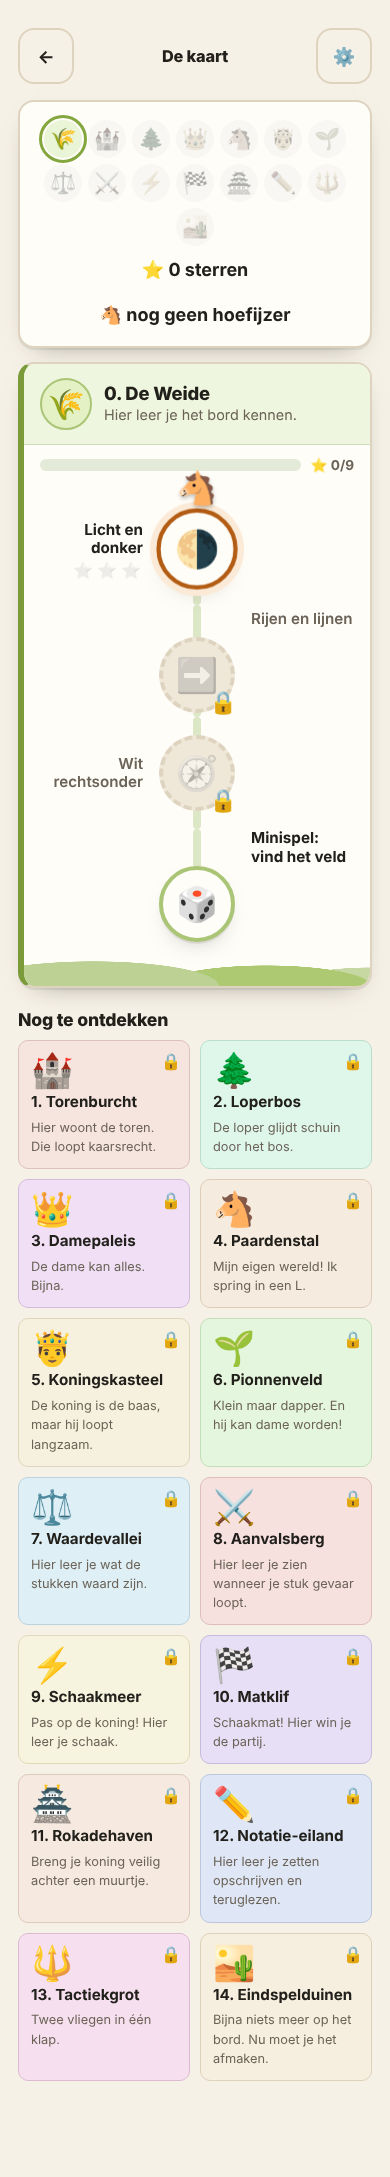
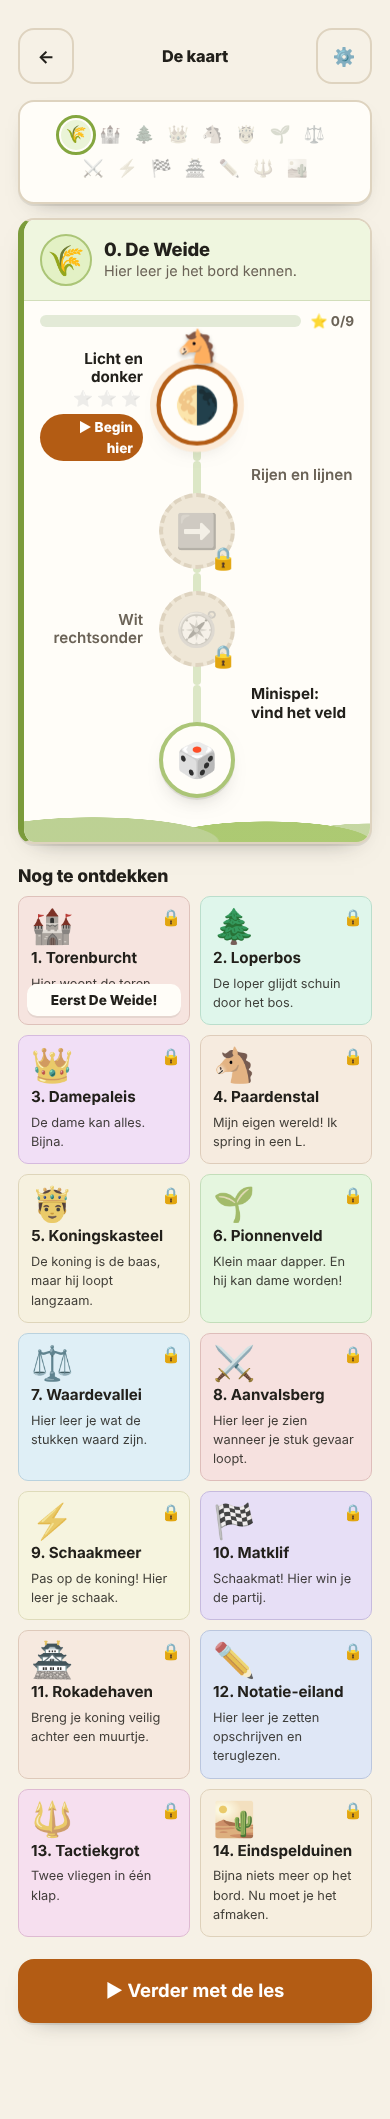
Kaart na 30e review: 64px-uitklapknop, tegels geven antwoord, 'Begin hier', scrollregel bewijst scrollen

diff --git a/src/app/kaart/page.tsx b/src/app/kaart/page.tsx
@@ -1,6 +1,6 @@
 'use client'
 
-import { useEffect } from 'react'
+import { useEffect, useRef, useState } from 'react'
 import Link from 'next/link'
 import { Kop } from '@/ui/Kop'
 import { Sterren } from '@/ui/Sterren'
@@ -43,6 +43,14 @@ export default function Kaart() {
   const geladen = useToestandGeladen()
   // Waar het kind gebleven is: de enige plek op de hele kaart waar Pip staat.
   const hier = volgendeOpenLes(voortgang, modus).id
+  const [wiebel, setWiebel] = useState<string | null>(null)
+  const wiebelTimer = useRef<ReturnType<typeof setTimeout>>(undefined)
+  const tikDicht = (id: string) => {
+    setWiebel(id)
+    clearTimeout(wiebelTimer.current)
+    wiebelTimer.current = setTimeout(() => setWiebel(null), 1800)
+  }
+  useEffect(() => () => clearTimeout(wiebelTimer.current), [])
 
   // Meteen naar de plek waar Pip staat: met drie afgeronde werelden erboven moest een
   // kind eerst ver scrollen om de volgende les te vinden.
@@ -69,6 +77,7 @@ export default function Kaart() {
   const hierWereld = WERELDEN.find((w) => w.lessen.some((l) => l.id === hier))?.id
   const hoefijzers = DIPLOMAS.filter((d) => diplomaBehaald(d.soort, voortgang))
   const KLEUR = { brons: '🥉', zilver: '🥈', goud: '🥇' } as const
+  const hierNaam = WERELDEN.find((w) => w.id === hierWereld)?.naam
 
   return (
     <main className="page">
@@ -94,25 +103,20 @@ export default function Kaart() {
             )
           })}
         </div>
-        <p className={styles.reisTotaal}>
-          <span>⭐ {sterrenTotaal(voortgang)} sterren</span>
-          <span aria-label={`${hoefijzers.length} hoefijzers`}>
-            {hoefijzers.length ? hoefijzers.map((d) => KLEUR[d.soort]).join(' ') : '🐴 nog geen hoefijzer'}
-          </span>
-        </p>
+        {/* Geen tellers op nul: "0 sterren, nog geen hoefijzer" zei een nieuwe ouder
+            alleen "je hebt nog niks" (30e review). */}
+        {sterrenTotaal(voortgang) > 0 && (
+          <p className={styles.reisTotaal}>
+            <span>⭐ {sterrenTotaal(voortgang)} sterren</span>
+            {hoefijzers.length > 0 && (
+              <span role="img" aria-label={`${hoefijzers.length} hoefijzers`}>{hoefijzers.map((d) => KLEUR[d.soort]).join(' ')}</span>
+            )}
+          </p>
+        )}
       </section>
       <div className="stack">
         {WERELDEN.filter(isOpen).map((wereld) => {
           const af = wereldIsAf(wereld.id, voortgang)
-          // Een wereld waarvan nog geen enkele les open is, krijgt één regel in plaats
-          // van een uitgeklapte kaart met vier lessen erin.
-          //
-          // De kaart was 6.300 pixels lang: zeven en een half telefoonscherm scrollen
-          // langs zesenvijftig hangslotjes om bij les twee te komen. Voor een kind is
-          // dat geen kaart maar een muur van alles wat het nog niet mag. Wat komen gaat
-          // blijft zichtbaar — het wapen, de naam, de belofte — maar het neemt geen
-          // halve pagina meer in beslag. Zodra er één les opengaat, klapt de wereld
-          // vanzelf helemaal open.
           // De halteplaatsen van deze wereld: eerst de lessen, dan het minispel als
           // laatste stop. Het minispel stond eronder als losse knop en werd daardoor
           // met geen mogelijkheid gevonden; op het pad is het gewoon de volgende halte.
@@ -192,8 +196,12 @@ export default function Kaart() {
               {/* Een wereld die af is en waar Pip niet meer staat, klapt dicht: anders
                   stonden er drie volle paden vol sterren boven de les van vandaag. Tik
                   op de regel en hij gaat weer open, om een les over te doen. */}
-              <details className={styles.uitklap} open={!af || wereld.id === hierWereld}>
-              <summary className={styles.uitklapKnop}>{af ? 'Lessen bekijken' : 'Lessen'}</summary>
+              <Uitklap ingeklapt={af && wereld.id !== hierWereld} toon={af}>
+              <summary className={styles.uitklapKnop}>
+                <span className={styles.dicht_}>Lessen bekijken</span>
+                <span className={styles.open_}>Dichtklappen</span>
+                <span className={styles.chevron} aria-hidden="true">⌄</span>
+              </summary>
               <div className={styles.binnen}>
               {/* Het pad: één spoor met de lessen als halteplaatsen erop, en Pip op de
                   plek waar het kind gebleven is. Zie Pad.module.css voor waarom het
@@ -237,6 +245,9 @@ export default function Kaart() {
                           {halte.titel}
                         </span>
                         {halte.open && halte.sterren !== null && <Sterren aantal={halte.sterren} />}
+                        {/* Het enige open rondje zag er niet uit als iets om op te tikken
+                            (30e review). Een woord erbij, voor de ouder die meekijkt. */}
+                        {halte.jij && <span className={styles.beginHier}>▶ Begin hier</span>}
                       </div>
                       {halte.open ? (
                         <Link
@@ -270,7 +281,7 @@ export default function Kaart() {
                 </Link>
               )}
               </div>
-              </details>
+              </Uitklap>
               <div className={styles.heuvels} aria-hidden="true" />
             </section>
           )
@@ -287,7 +298,15 @@ export default function Kaart() {
           </h2>
           <ul className={styles.tegels}>
             {dichte.map((w) => (
-              <li key={w.id} className={styles.tegel} style={{ '--toon': w.toon } as React.CSSProperties}>
+              <li key={w.id} style={{ '--toon': w.toon } as React.CSSProperties}>
+                {/* Een knop die niets opent maar wel antwoord geeft: een kind van vier
+                    tikte op een vrolijke tegel en er gebeurde niets (30e review). */}
+                <button
+                  type="button"
+                  className={`${styles.tegel} ${wiebel === w.id ? styles.wiebelt : ''}`}
+                  onClick={() => tikDicht(w.id)}
+                  aria-label={`${w.nummer}. ${w.naam}, nog op slot. ${w.belofte}`}
+                >
                 <span className={styles.tegelWapen} aria-hidden="true">
                   {w.emoji}
                 </span>
@@ -295,14 +314,43 @@ export default function Kaart() {
                   {w.nummer}. {w.naam}
                 </strong>
                 <span className={styles.tegelBelofte}>{w.belofte}</span>
-                <span className={styles.tegelSlot} aria-label="Nog op slot">
+                <span className={styles.tegelSlot} aria-hidden="true">
                   🔒
                 </span>
+                {wiebel === w.id && hierNaam && (
+                  <span className={styles.tegelEerst} role="status">
+                    Eerst {hierNaam}!
+                  </span>
+                )}
+                </button>
               </li>
             ))}
           </ul>
         </section>
       )}
+
+      {/* Wie tot onderaan scrolde, liep dood op een tegel op slot. */}
+      <Link href={`/les/${hier}/`} className="btn btn--primary btn--big" style={{ marginTop: 22, width: '100%', justifyContent: 'center' }}>
+        ▶ Verder met de les
+      </Link>
     </main>
+  )
+}
+
+/**
+ * Een afgeronde wereld kan dichtklappen (met de knop als eerste kind, de summary); een
+ * wereld die nog bezig is, toont gewoon zijn pad zonder knop ervoor.
+ * Ongecontroleerd (`defaultOpen` via de eerste render): React zet `open` niet terug als
+ * het kind zelf heeft uit- of ingeklapt.
+ */
+function Uitklap({ ingeklapt, toon, children }: { ingeklapt: boolean; toon: boolean; children: React.ReactNode }) {
+  if (!toon) {
+    const [, ...rest] = Array.isArray(children) ? children : [children]
+    return <>{rest}</>
+  }
+  return (
+    <details className={styles.uitklap} open={!ingeklapt ? true : undefined}>
+      {children}
+    </details>
   )
 }

diff --git a/src/app/kaart/Kaart.module.css b/src/app/kaart/Kaart.module.css
@@ -120,10 +120,12 @@
 
 /* ---------- Jouw reis ---------- */
 .reis { display: flex; flex-direction: column; gap: 10px; margin-bottom: 14px; }
-.reisWapens { display: flex; flex-wrap: wrap; justify-content: center; gap: 6px; }
+.reisWapens { display: flex; flex-wrap: wrap; justify-content: center; gap: 4px; max-width: 290px; margin: 0 auto; }
+@media (min-width: 700px) { .reisWapens { max-width: none; } }
 .reisWapen {
-  display: grid; place-items: center; width: 38px; height: 38px; border-radius: 50%;
-  font-size: 21px; background: color-mix(in srgb, var(--ink) 6%, transparent);
+  /* Passief en klein: dit is een overzicht, geen rij knoppen. */
+  display: grid; place-items: center; width: 30px; height: 30px; border-radius: 50%;
+  font-size: 17px; background: transparent;
   filter: grayscale(0.85); opacity: 0.45;
 }
 .reisAf { filter: none; opacity: 1; background: hsl(var(--toon) 55% 86%); }
@@ -150,14 +152,15 @@
   display: grid; gap: 10px; grid-template-columns: repeat(auto-fill, minmax(150px, 1fr));
 }
 .tegel {
-  position: relative; display: flex; flex-direction: column; gap: 4px;
+  position: relative; display: flex; flex-direction: column; gap: 4px; width: 100%; height: 100%;
+  text-align: left; font: inherit; color: inherit; cursor: pointer; min-height: 64px;
   padding: 12px; border-radius: var(--radius-sm, 12px);
   background: hsl(var(--toon) 58% 92%);
   border: 1px solid hsl(var(--toon) 35% 80%);
 }
-.tegelWapen { font-size: 34px; line-height: 1; }
+.tegelWapen { font-size: 34px; line-height: 1; filter: grayscale(0.4); }
 .tegelNaam { font-size: 0.95rem; }
-.tegelBelofte { font-size: 0.8rem; color: var(--muted); }
+.tegelBelofte { font-size: 0.8rem; color: var(--ink); opacity: 0.85; }
 .tegelSlot { position: absolute; top: 8px; right: 8px; font-size: 16px; }
 
 @media (prefers-color-scheme: dark) {
@@ -176,7 +179,33 @@
 /* Uitklappen: alleen zichtbaar bij een afgeronde wereld; een open wereld toont meteen het pad. */
 .uitklap > summary::-webkit-details-marker { display: none; }
 .uitklapKnop {
-  list-style: none; cursor: pointer; min-height: 48px; display: flex; align-items: center;
-  justify-content: center; font-weight: 700; color: var(--muted);
+  list-style: none; cursor: pointer; min-height: 64px; display: flex; align-items: center;
+  justify-content: center; gap: 8px; font-weight: 700; color: var(--ink);
+  margin: 8px 16px; border-radius: 14px; border: 2px solid hsl(var(--toon) 35% 75%);
+  background: var(--surface);
 }
-.uitklap[open] > .uitklapKnop { display: none; }
+.chevron { font-size: 1.4rem; line-height: 1; transition: transform 200ms; }
+.uitklap[open] .chevron { transform: rotate(180deg); }
+.uitklap .open_ { display: none; }
+.uitklap[open] .open_ { display: inline; }
+.uitklap[open] .dicht_ { display: none; }
+/* Een open wereld waar je nu bent, toont het pad zonder knop erboven. */
+.uitklap[open]:not(.af) > .uitklapKnop { order: 2; }
+.beginHier {
+  display: inline-block; margin-top: 4px; padding: 3px 10px; border-radius: 999px;
+  background: var(--accent); color: #fff; font-weight: 800; font-size: 0.85rem; white-space: nowrap;
+}
+.tegelEerst {
+  position: absolute; inset: auto 8px 8px 8px; padding: 6px 8px; border-radius: 10px;
+  background: var(--surface); font-weight: 800; font-size: 0.85rem; text-align: center;
+  box-shadow: var(--shadow);
+}
+.wiebelt { animation: wiebel 400ms ease-in-out 1; }
+@keyframes wiebel { 0%, 100% { transform: none; } 25% { transform: rotate(-2deg); } 75% { transform: rotate(2deg); } }
+@media (prefers-reduced-motion: reduce) { .wiebelt { animation: none; } .chevron { transition: none; } }
+:root[data-theme='dark'] .heuvels {
+  background:
+    radial-gradient(60% 120% at 20% 100%, hsl(var(--toon) 25% 28%) 60%, transparent 61%),
+    radial-gradient(50% 100% at 70% 100%, hsl(var(--toon) 28% 34%) 60%, transparent 61%),
+    radial-gradient(40% 90% at 100% 100%, hsl(var(--toon) 22% 24%) 60%, transparent 61%);
+}

diff --git a/docs/reviews/2026-11-03-dertigste-review.md b/docs/reviews/2026-11-03-dertigste-review.md
@@ -1,0 +1,51 @@
+# Dertigste review: de wereldkaart (2026-11-03)
+
+Fase: "volgende niveau", ronde 5. Wat er nieuw is:
+- een reis-strook bovenaan;
+- heuvels onder de open werelden;
+- de dichte werelden als gekleurde tegels "Nog te ontdekken";
+- afgeronde werelden die je kunt inklappen;
+- de kaart scrolt vanzelf naar Pip.
+
+De reviewers zijn rechtstreeks gestart.
+
+**Oordeel na verwerking: GO voor deze fase.** Er is niets blokkerends. `check` en de doorloop zijn groen; de doorloop heeft er een regel bij die het scrollen bewijst.
+
+## Schaakmeester
+- **Hoofdvraag: zijn de tegels "Matklif: Schaakmat!" en "Schaakmeer" voor een kind in wereld 0 een te vroege introductie van mat?** Nee. Een vooruitzicht is geen uitleg: er wordt niets van het kind gevraagd, en dezelfde teksten stonden al op de kaart.
+- **Klein: beloftes van w10, w6 en w11 zijn wat ruim versimpeld.** *Niet aangepast:* het zijn versimpelingen, geen onwaarheden, en de content valt buiten deze fase.
+
+## Layout
+- **Belangrijk: "Lessen bekijken" was 48 px en kon niet terug dicht.** *Opgelost:* het is nu een echte knop van 64 px met een chevron, en hij wisselt naar "Dichtklappen".
+- **Belangrijk: reis-wapens die op knoppen leken.** *Opgelost:* ze zijn nu duidelijk passief: 30 px, zonder rondje.
+- **Belangrijk: dichte tegels zagen er even open uit als open werelden, en een tik deed niets.** *Opgelost:* het wapen is half grijs. Een tik laat de tegel wiebelen en toont "Eerst De Weide!". Bij reduced-motion wiebelt hij niet.
+- **Klein: contrast van de belofte op lichte tegels zat op de grens.** *Opgelost:* de belofte staat nu in `--ink` met 85% dekking.
+- **Klein: de heuvels misten een regel voor `data-theme=dark`.** *Opgelost.*
+- **Klein: op de telefoon stond het laatste wapen alleen op een regel (7/7/1).** *Opgelost* met een strook van maximaal 290 px, dus 8/7.
+- **Klein: "0 sterren" en "nog geen hoefijzer" op aparte regels.** *Opgelost:* tellers op nul verdwijnen.
+- **Klein: twee paardjes in beeld.** *Niet opgelost:* het wapen van Paardenstal is content. Pip staat op het pad met "Begin hier" ernaast, en dat onderscheidt hem genoeg.
+
+## Conversie
+- **Belangrijk: de reis-strook nam de plek boven de vouw in.** *Opgelost:* de strook is compact en heeft geen tellers op nul. De eerste les begint nu rond y 300.
+- **Belangrijk: het open rondje zag er niet uit als een knop.** *Opgelost* met een label "▶ Begin hier".
+- **Klein: drie ingeklapte werelden vóór de open wereld.** *Gedeeltelijk:* de kaart scrolt naar Pip, en de doorloop bewijst dat. De volgorde blijft gelijk, want de reis loopt van boven naar beneden.
+- **Klein: de pagina eindigde doodlopend.** *Opgelost* met een knop "Verder met de les" onderaan.
+- **Klein: een tik op een tegel gaf geen uitleg.** *Opgelost* met "Eerst …!" (zie Layout). Meer uitleg dan dat niet: de belofte staat er al.
+- **Klein: geen telling "les gestart vanaf de kaart".** *Niet toegevoegd:* "Les begonnen" bestaat al. De bron van een start erbij tellen is een keuze voor Kaj; dat komt eventueel later.
+
+## Codebase
+- **Belangrijk: de doorloop testte het scrollen niet.** *Opgelost:* de test draait nu op een scherm van 390×500 en controleert ook `scrollY > 0`. Uitkomst: scrollY 935, de les in beeld.
+- **Klein: React-gecontroleerd `open`.** *Geaccepteerd:* een tik van de gebruiker blijft staan, en de randgevallen (af worden op de kaart zelf, wisselen van profiel) gebeuren niet op dit scherm.
+- **Klein: alles af → Pip valt terug op wereld 0.** *Niet opgelost:* dat bestond al vóór deze fase. Het staat op het scorebord.
+- **Klein: `aria-label` op spans zonder rol.** *Opgelost:* het hoefijzer heeft `role="img"` en het slotje op de tegels is `aria-hidden`, met de hele uitleg in de `aria-label` van de knop.
+- **Klein: verouderd commentaar.** *Weggehaald.*
+
+## Wow: wereldkaart
+| layout | conversie | vorige ronde (27e) |
+|---|---|---|
+| 6,5 | 7,5 | 5 / 6,5 |
+
+De cijfers zijn gegeven vóór de verwerking. Naar een 9:
+- één doorlopend landschap met een slingerend pad;
+- Pip die op de halte stuitert;
+- een "Bijna!"-glimp op de volgende wereld.

diff --git a/docs/volgende-niveau.md b/docs/volgende-niveau.md
@@ -27,7 +27,7 @@ Schermafbeeldingen: `docs/volgende-niveau/voor-*.png`.
 | Tik-reactie < 100 ms | nog niet gemeten | ⚪ |
 | Beloningsmoment per wereld | ronde 3: eigen held-kaart (wapen 128 px, confetti, wapenrij), diploma-voorproef | 🟢 (wow nog te meten) |
 | `prefers-reduced-motion` | nieuwe animaties (golf, vonk, wapen) bewaakt in doorloop, aan én uit; oudere nog niet allemaal nagelopen | 🟡 |
-| Wow-toets ≥ 9 (4 schermen, 2 reviewers) | ronde 4: eerste les 7/7. ronde 3: wereld af 5/7, diploma 7,5/8 (vóór verbouwing). ronde 2: start 6/7, les 6,5/6, diploma 3/–, kaart 5/6,5 (zie 27e review) | 🔴 |
+| Wow-toets ≥ 9 (4 schermen, 2 reviewers) | ronde 5: kaart 6,5/7,5. ronde 4: eerste les 7/7. ronde 3: wereld af 5/7, diploma 7,5/8 (vóór verbouwing). ronde 2: start 6/7, les 6,5/6, diploma 3/–, kaart 5/6,5 (zie 27e review) | 🔴 |
 | OG-afbeelding per pagina | één algemene `og.png` voor alle pagina's | 🔴 |
 | Deelknop op trotse momenten | ronde 3: op wereld af en diploma, alleen link + vaste zin, anonieme telling `Gedeeld`; doorloop bewaakt share én kopieer zonder naam | 🟢 |
 | Installeerbaar | manifest + service worker aanwezig | 🟢 |
@@ -37,9 +37,9 @@ Schermafbeeldingen: `docs/volgende-niveau/voor-*.png`.
 
 ## Rangschikking (wow per uur werk), bijgewerkt na ronde 4
 
-Gedaan: bord liggend (r2), trots moment + delen (r3), eerste les levendiger (r4).
+Gedaan: bord liggend (r2), trots moment + delen (r3), eerste les levendiger (r4), wereldkaart (r5).
 
-1. **Wereldkaart als landschap** (laagste cijfer: 5/6,5): werelden als plekken met een doorlopend pad, dichte werelden in kleur "komt nog".
+1. ~~Wereldkaart~~ (r5). Rest: één doorlopend landschap met slingerpad, Pip stuitert op de halte, alles-af-toestand.
 2. **Startpagina-held**: bewegende Pip + bord, de belofte groot ("Gratis. Geen reclame. Geen account.").
 3. **Raakvlakken**: kopknoppen 44 → 48/64 px, fasebalk/voortgangsrondjes, startpagina-links, en de sfx-404.
 4. **Wereld 0–2 offline voorladen.**
@@ -52,3 +52,4 @@ Gedaan: bord liggend (r2), trots moment + delen (r3), eerste les levendiger (r4)
 - Ronde 2: lesscherm liggend (bord naast Pip, volle hoogte op telefoon dwars). 27e review verwerkt. Wow-cijfers gemeten.
 - Ronde 3: trots moment — deelknop (link + vaste zin, telling), diploma-voorproef met wereldwapens, wereld af als held. 28e review verwerkt. Pip-zin 'Hoefijzer verdiend' weg (klopte niet na wereld 1).
 - Ronde 4: eerste les levendiger — bord rolt in een golf binnen bij de eerste zin, goed veld veert op met een vonkje, Pip groot op liggende schermen. Reduced-motion bewaakt in doorloop.
+- Ronde 5: wereldkaart — reis-strook, heuvels, tegels 'Nog te ontdekken' (tik geeft antwoord), afgeronde werelden inklapbaar (64 px), 'Begin hier', scroll naar Pip (bewezen in doorloop).
